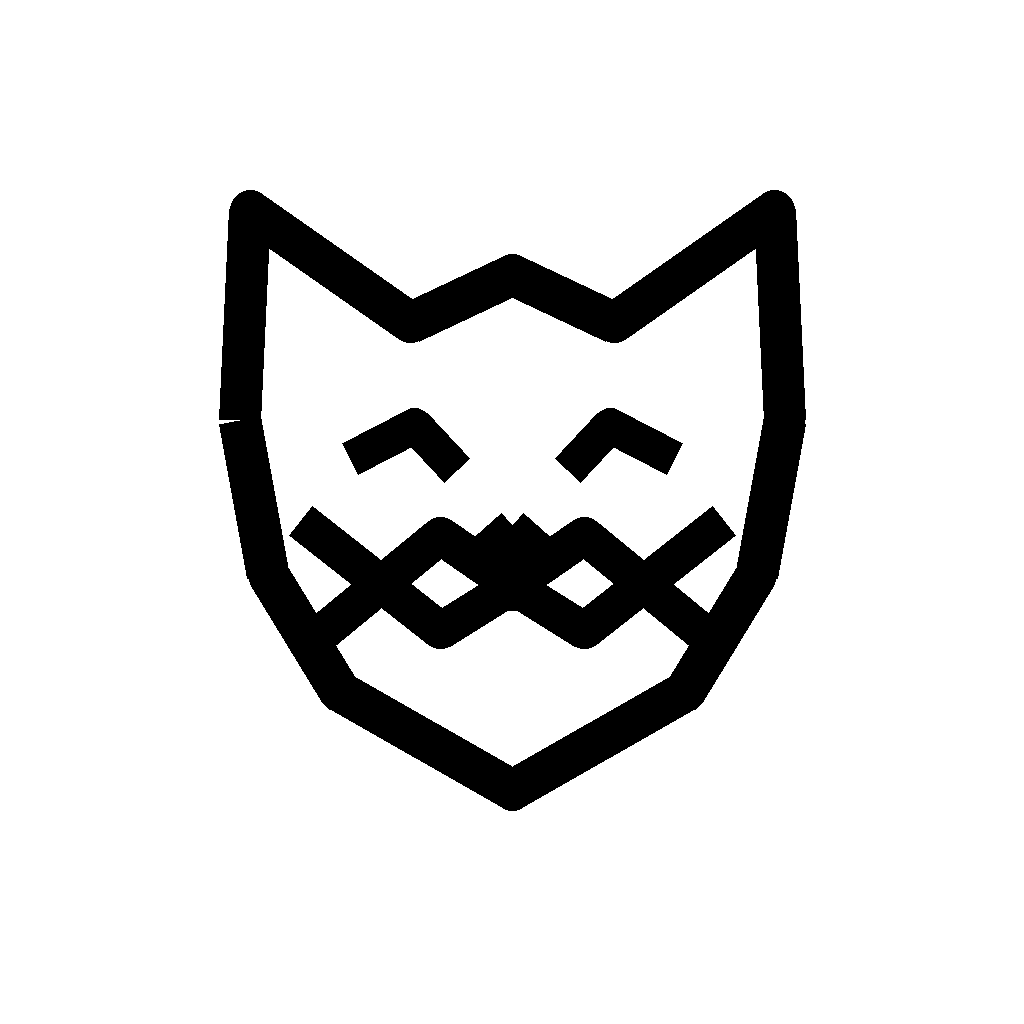
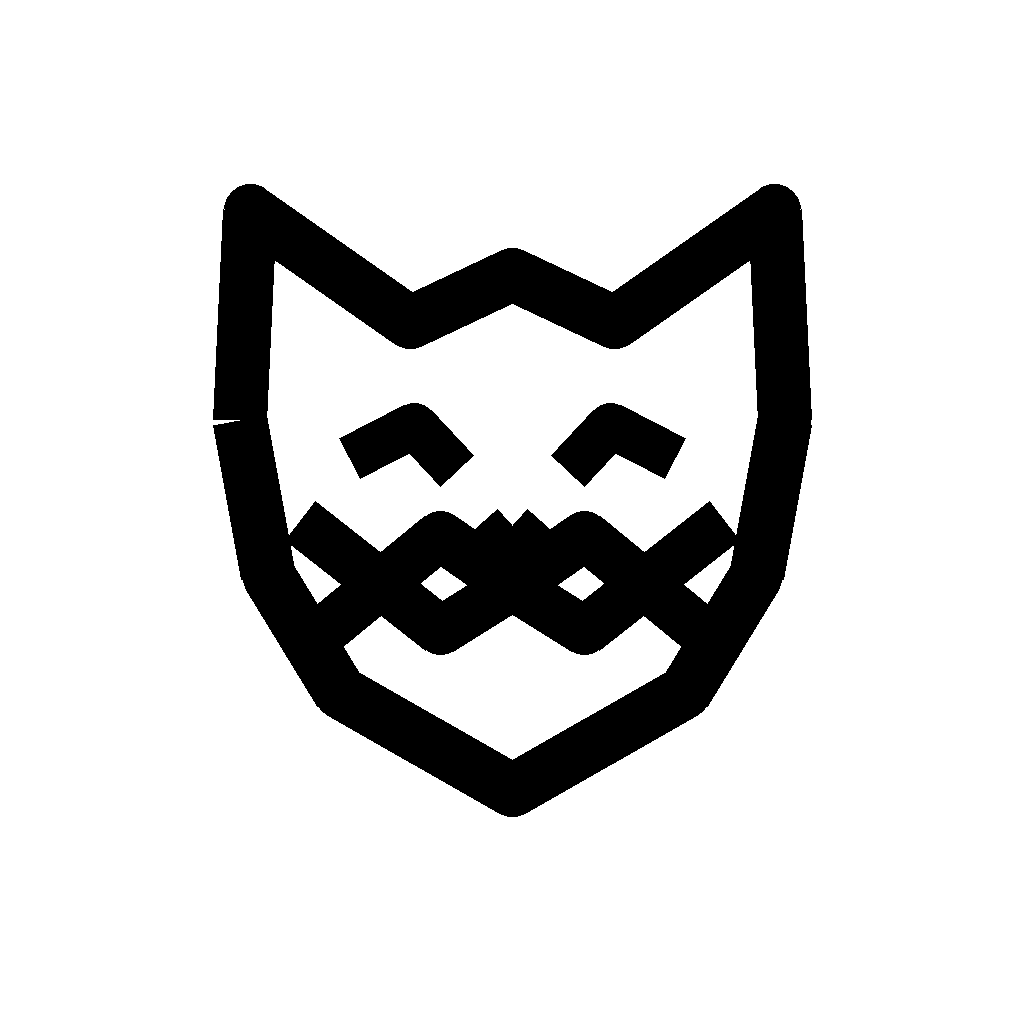
调试

diff --git a/lib/app/widgets/app_page.dart b/lib/app/widgets/app_page.dart
@@ -4,6 +4,7 @@ class AppPage extends StatelessWidget {
   const AppPage({
     super.key,
     required this.title,
+    this.leading,
     this.subtitle,
     this.actions = const [],
     required this.child,
@@ -11,6 +12,7 @@ class AppPage extends StatelessWidget {
     this.maxContentWidth = 1200,
   });
   final String title;
+  final Widget? leading;
   final String? subtitle;
   final List<Widget> actions;
   final Widget child;
@@ -30,7 +32,9 @@ class AppPage extends StatelessWidget {
               actions.isNotEmpty &&
               ((box.maxWidth < 500) ||
                   MediaQuery.textScalerOf(context).scale(14) > 19);
-          final heading = Column(
+          final pageLeading =
+              leading ?? AppPageLeading.maybeOf(context)?.leading;
+          final headingContent = Column(
             crossAxisAlignment: CrossAxisAlignment.start,
             children: [
               Text(title, style: Theme.of(context).textTheme.headlineMedium),
@@ -40,6 +44,16 @@ class AppPage extends StatelessWidget {
               ],
             ],
           );
+          final heading = pageLeading == null
+              ? headingContent
+              : Row(
+                  crossAxisAlignment: CrossAxisAlignment.start,
+                  children: [
+                    pageLeading,
+                    const SizedBox(width: 2),
+                    Expanded(child: headingContent),
+                  ],
+                );
           final controls = Wrap(spacing: 6, runSpacing: 4, children: actions);
           return Column(
             crossAxisAlignment: CrossAxisAlignment.stretch,
@@ -97,4 +111,23 @@ class AppPage extends StatelessWidget {
       ),
     ),
   );
+}
+
+/// Supplies a leading control to a nested [AppPage] without coupling feature
+/// pages to the route that opened them.
+class AppPageLeading extends InheritedWidget {
+  const AppPageLeading({
+    super.key,
+    required this.leading,
+    required super.child,
+  });
+
+  final Widget leading;
+
+  static AppPageLeading? maybeOf(BuildContext context) =>
+      context.dependOnInheritedWidgetOfExactType<AppPageLeading>();
+
+  @override
+  bool updateShouldNotify(AppPageLeading oldWidget) =>
+      leading != oldWidget.leading;
 }

diff --git a/lib/app/pages/workspace/workspace_view.dart b/lib/app/pages/workspace/workspace_view.dart
@@ -22,6 +22,8 @@ class WorkspaceView extends GetView<WorkspaceController> {
     AppIcons.profile,
     AppIcons.tools,
   ];
+  static const dockLabels = [...labels, 'settings'];
+  static const dockIcons = [...icons, AppIcons.settings];
   static const pages = <Widget>[
     DashboardView(),
     ProxiesView(),
@@ -236,15 +238,17 @@ class WorkspaceView extends GetView<WorkspaceController> {
         child: Obx(
           () => Row(
             children: [
-              for (var i = 0; i < labels.length; i++) ...[
+              for (var i = 0; i < dockLabels.length; i++) ...[
                 if (i > 0) const SizedBox(width: 4),
                 Expanded(
                   child: AppNavigationItem(
-                    label: labels[i].tr,
-                    icon: icons[i],
-                    selected: controller.index.value == i,
+                    label: dockLabels[i].tr,
+                    icon: dockIcons[i],
+                    selected: i < labels.length && controller.index.value == i,
                     vertical: true,
-                    onTap: () => controller.select(i),
+                    onTap: () => i < labels.length
+                        ? controller.select(i)
+                        : controller.openSettings(context),
                   ),
                 ),
               ],

diff --git a/lib/app/pages/tools/tools_view.dart b/lib/app/pages/tools/tools_view.dart
@@ -100,21 +100,13 @@ class _FeatureRoute extends StatelessWidget {
   @override
   Widget build(BuildContext context) => Scaffold(
     body: SafeArea(
-      child: Column(
-        children: [
-          Align(
-            alignment: Alignment.centerLeft,
-            child: Padding(
-              padding: const EdgeInsets.fromLTRB(16, 8, 0, 0),
-              child: IconButton(
-                tooltip: 'back'.tr,
-                onPressed: () => Navigator.pop(context),
-                icon: const AppIcon(AppIcons.arrowLeft),
-              ),
-            ),
-          ),
-          Expanded(child: child),
-        ],
+      child: AppPageLeading(
+        leading: IconButton(
+          tooltip: 'back'.tr,
+          onPressed: () => Navigator.pop(context),
+          icon: const AppIcon(AppIcons.arrowLeft),
+        ),
+        child: child,
       ),
     ),
   );

diff --git a/test/app/app_layout_test.dart b/test/app/app_layout_test.dart
@@ -147,6 +147,22 @@ void main() {
     await tester.pumpWidget(const SizedBox.shrink());
   });
 
+  testWidgets('mobile workspace exposes settings in the bottom navigation', (
+    tester,
+  ) async {
+    await tester.binding.setSurfaceSize(const Size(390, 844));
+    addTearDown(() => tester.binding.setSurfaceSize(null));
+    await tester.pumpWidget(const CloudriftApp());
+    await tester.pumpAndSettle();
+
+    final settingsItem = find.bySemanticsLabel('Settings');
+    expect(settingsItem, findsOneWidget);
+    await tester.tap(settingsItem);
+    await tester.pumpAndSettle();
+    expect(find.byType(SettingsView), findsOneWidget);
+    expect(tester.takeException(), isNull);
+  });
+
   testWidgets('desktop settings use grouped sidebar navigation', (
     tester,
   ) async {

diff --git a/tool/generate_icons.py b/tool/generate_icons.py
@@ -13,9 +13,8 @@ from PIL import Image, ImageDraw
 
 ROOT = Path(__file__).resolve().parent.parent
 SIZE = 1024
-# Keep the mark crisp at 16–20 px while giving the internal ribbons a little
-# more visual weight than the previous hairline treatment.
-STROKE = 42
+# Keep the mark legible at 16–20 px with a confident, compact line weight.
+STROKE = 54
 
 
 def _segments(draw: ImageDraw.ImageDraw, color: tuple[int, int, int, int]) -> None:
@@ -49,16 +48,16 @@ def _segments(draw: ImageDraw.ImageDraw, color: tuple[int, int, int, int]) -> No
     )
 
     # Eyes are open geometric chevrons rather than filled shapes.
-    line([(350, 458), (414, 425), (456, 470)], width=36)
-    line([(568, 470), (610, 425), (674, 458)], width=36)
+    line([(350, 458), (414, 425), (456, 470)], width=46)
+    line([(568, 470), (610, 425), (674, 458)], width=46)
 
     # Two crossing ribbons create the interlaced dclash signature.
-    line([(300, 520), (440, 630), (512, 585), (584, 630), (724, 520)], width=38)
-    line([(300, 650), (440, 535), (512, 585), (584, 535), (724, 650)], width=38)
+    line([(300, 520), (440, 630), (512, 585), (584, 630), (724, 520)], width=50)
+    line([(300, 650), (440, 535), (512, 585), (584, 535), (724, 650)], width=50)
 
     # Small diamond nose and a centred mouth keep the face readable at 16 px.
-    line([(512, 525), (538, 548), (512, 571), (486, 548), (512, 525)], width=34)
-    line([(512, 571), (512, 610)], width=34)
+    line([(512, 525), (538, 548), (512, 571), (486, 548), (512, 525)], width=44)
+    line([(512, 571), (512, 610)], width=44)
 
 
 def _icon(
